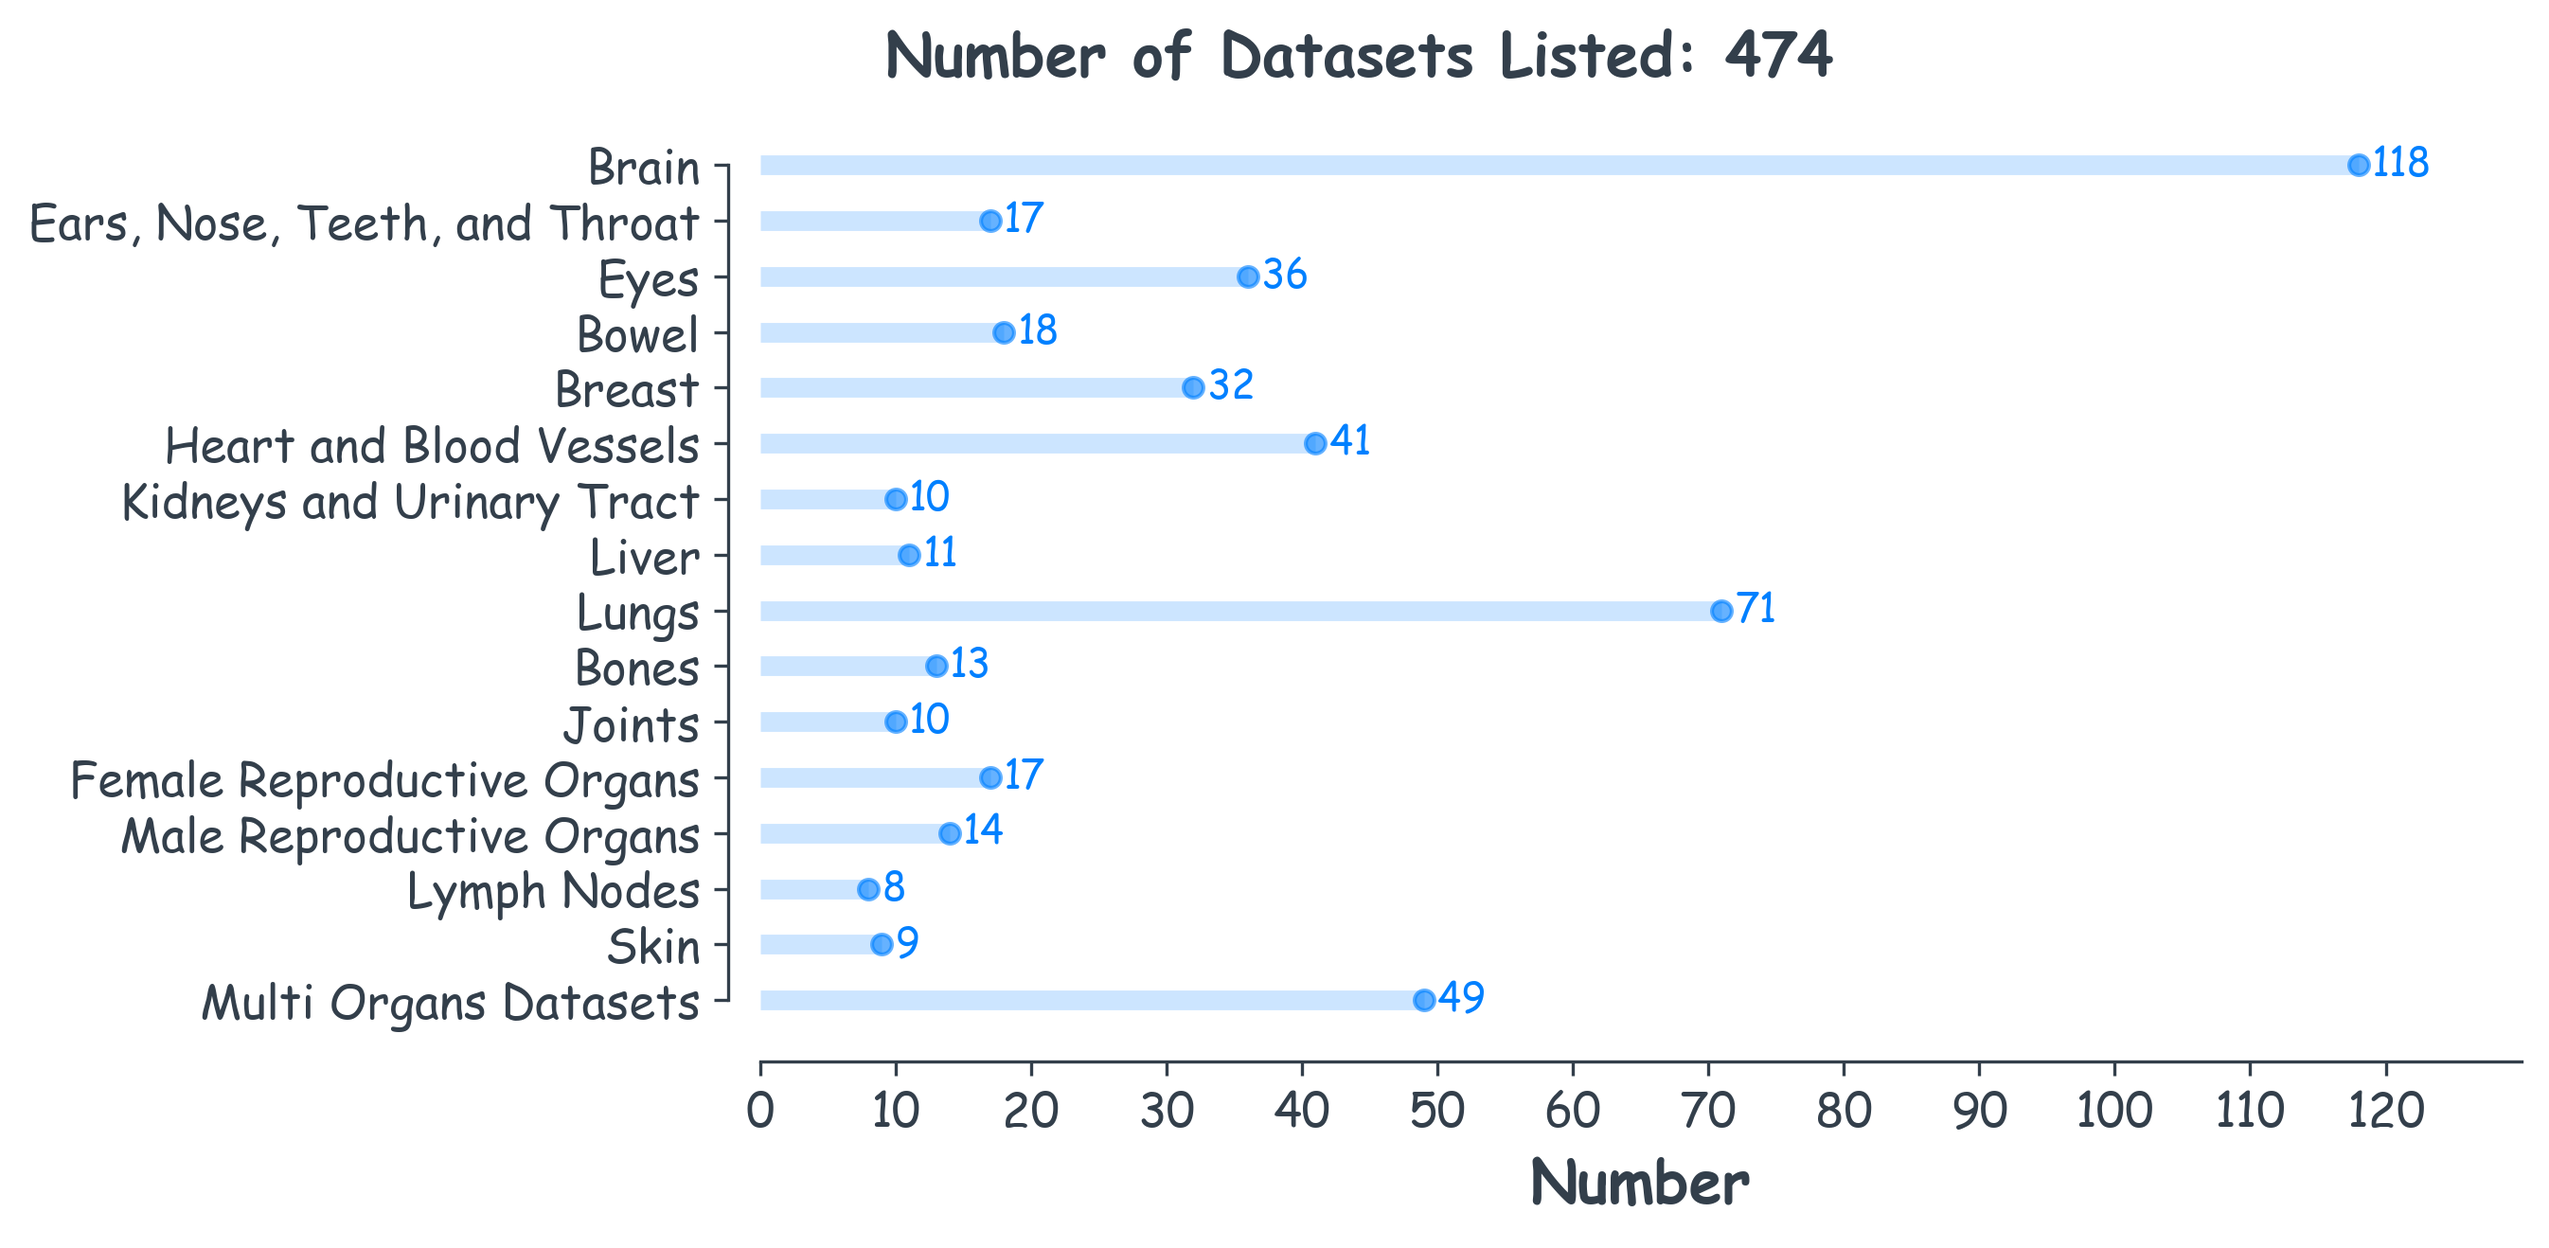
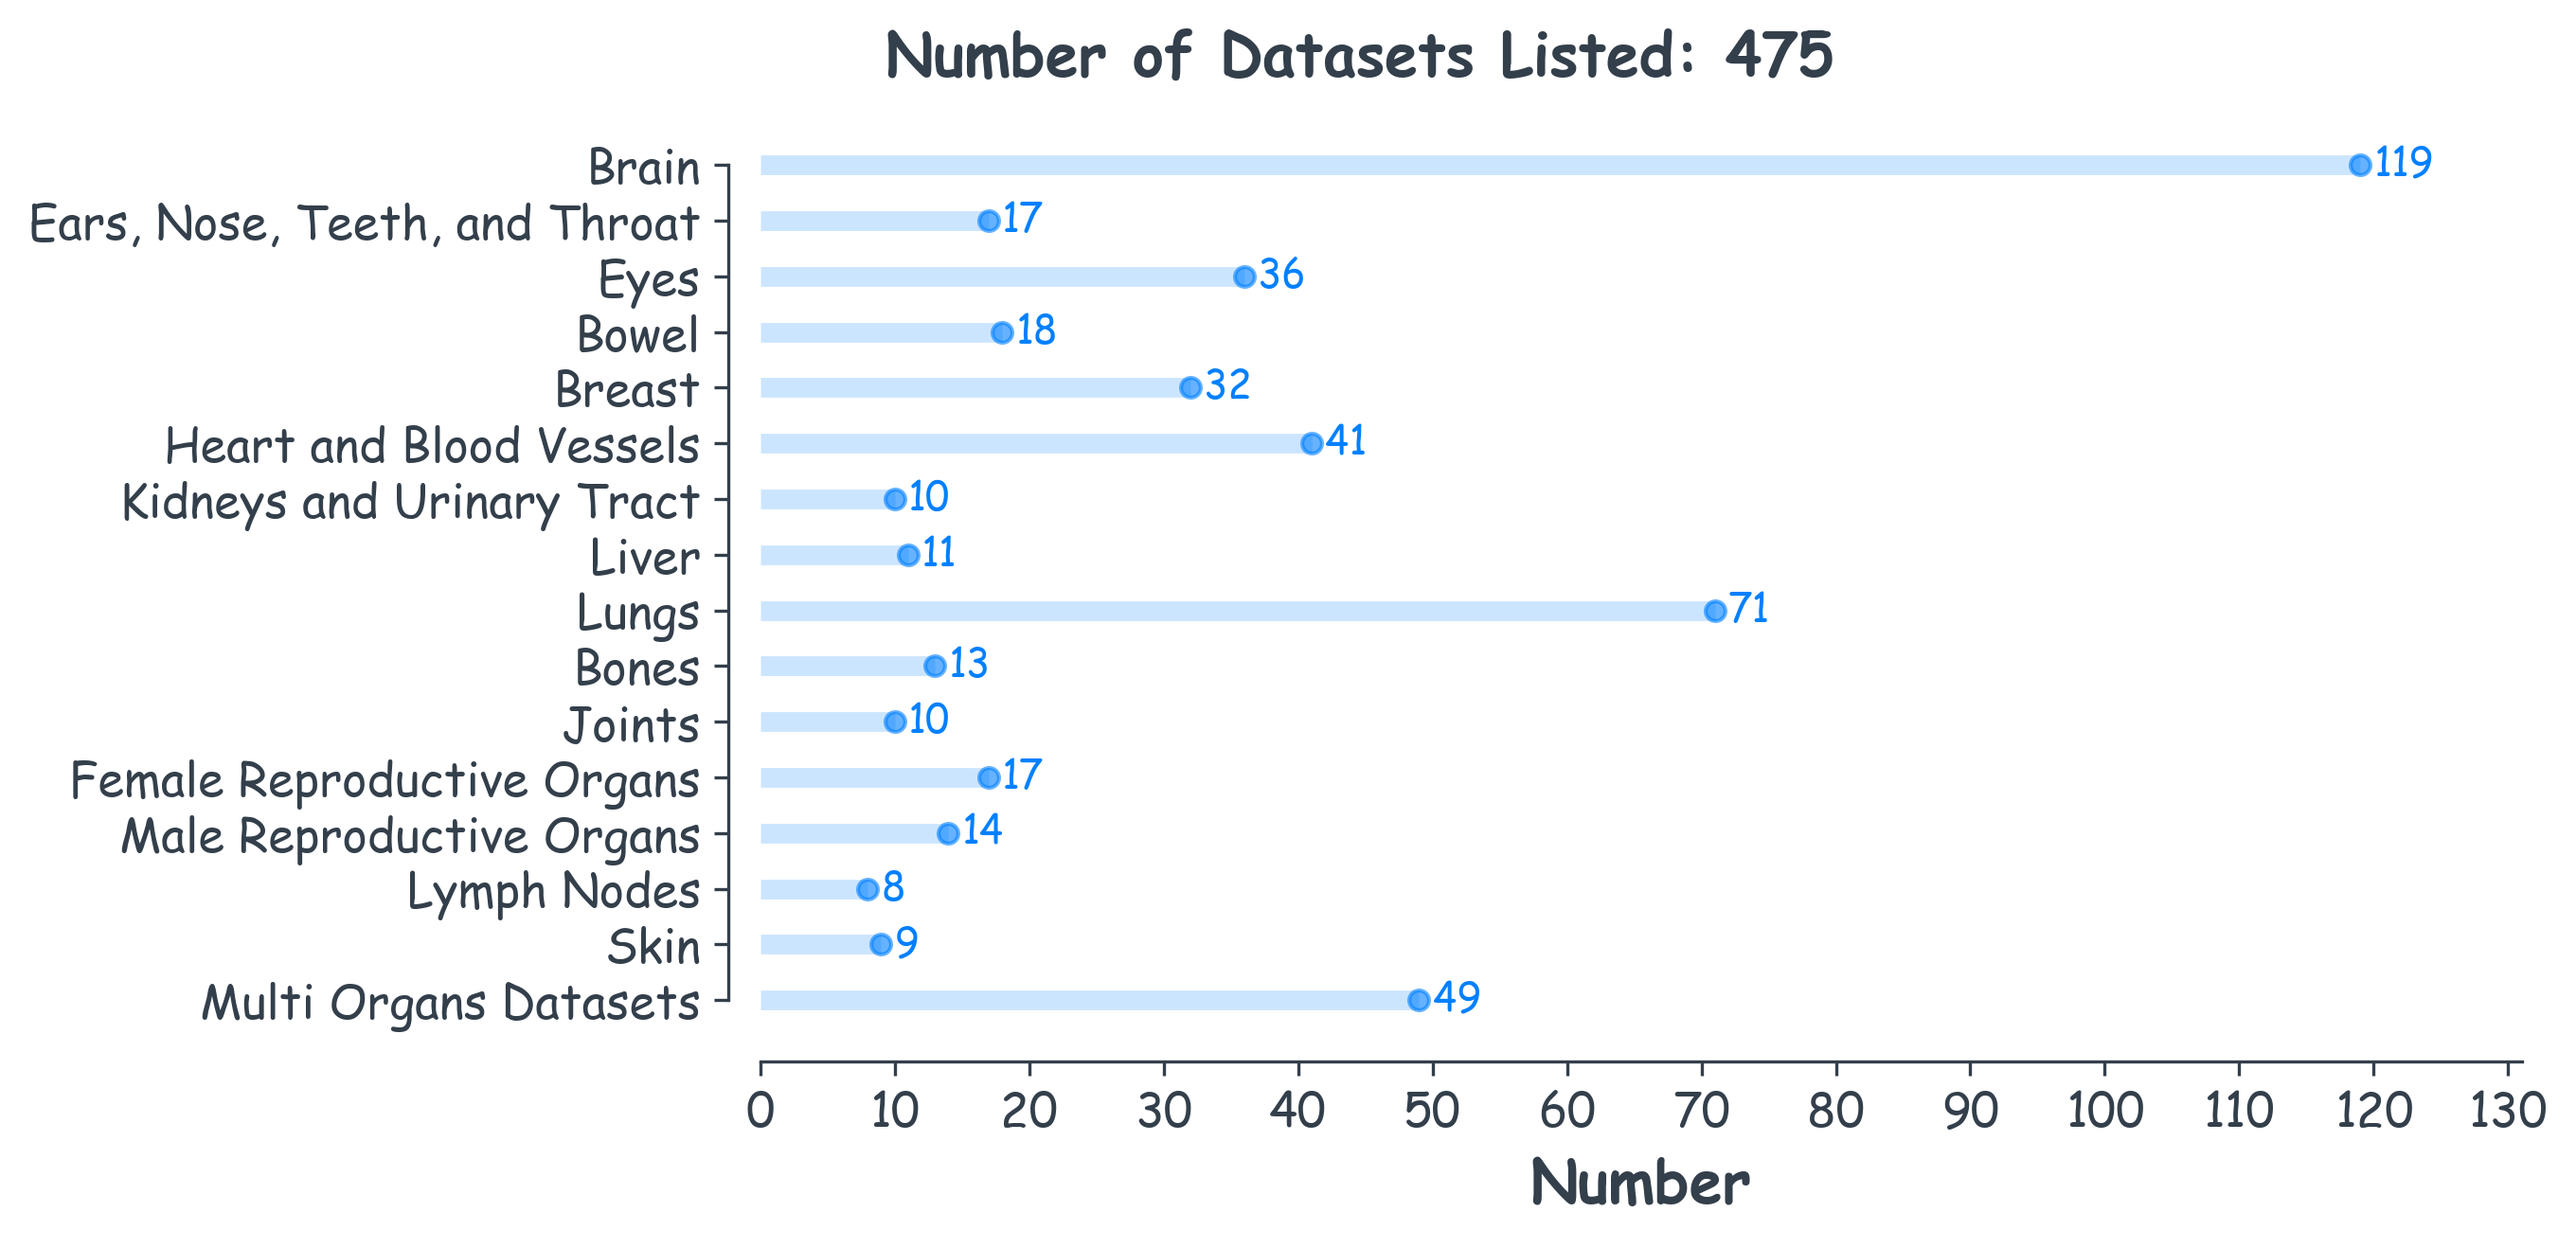
update image number, N = 475

diff --git a/src/datasetNumberImage.py b/src/datasetNumberImage.py
@@ -29,7 +29,7 @@ plt.rcParams['text.color']='#333F4B'
 
 
 data = {
-       'Brain': 118,
+       'Brain': 119,
        'Ears, Nose, Teeth, and Throat': 17, 
        'Eyes': 36,
        'Bowel': 18,
